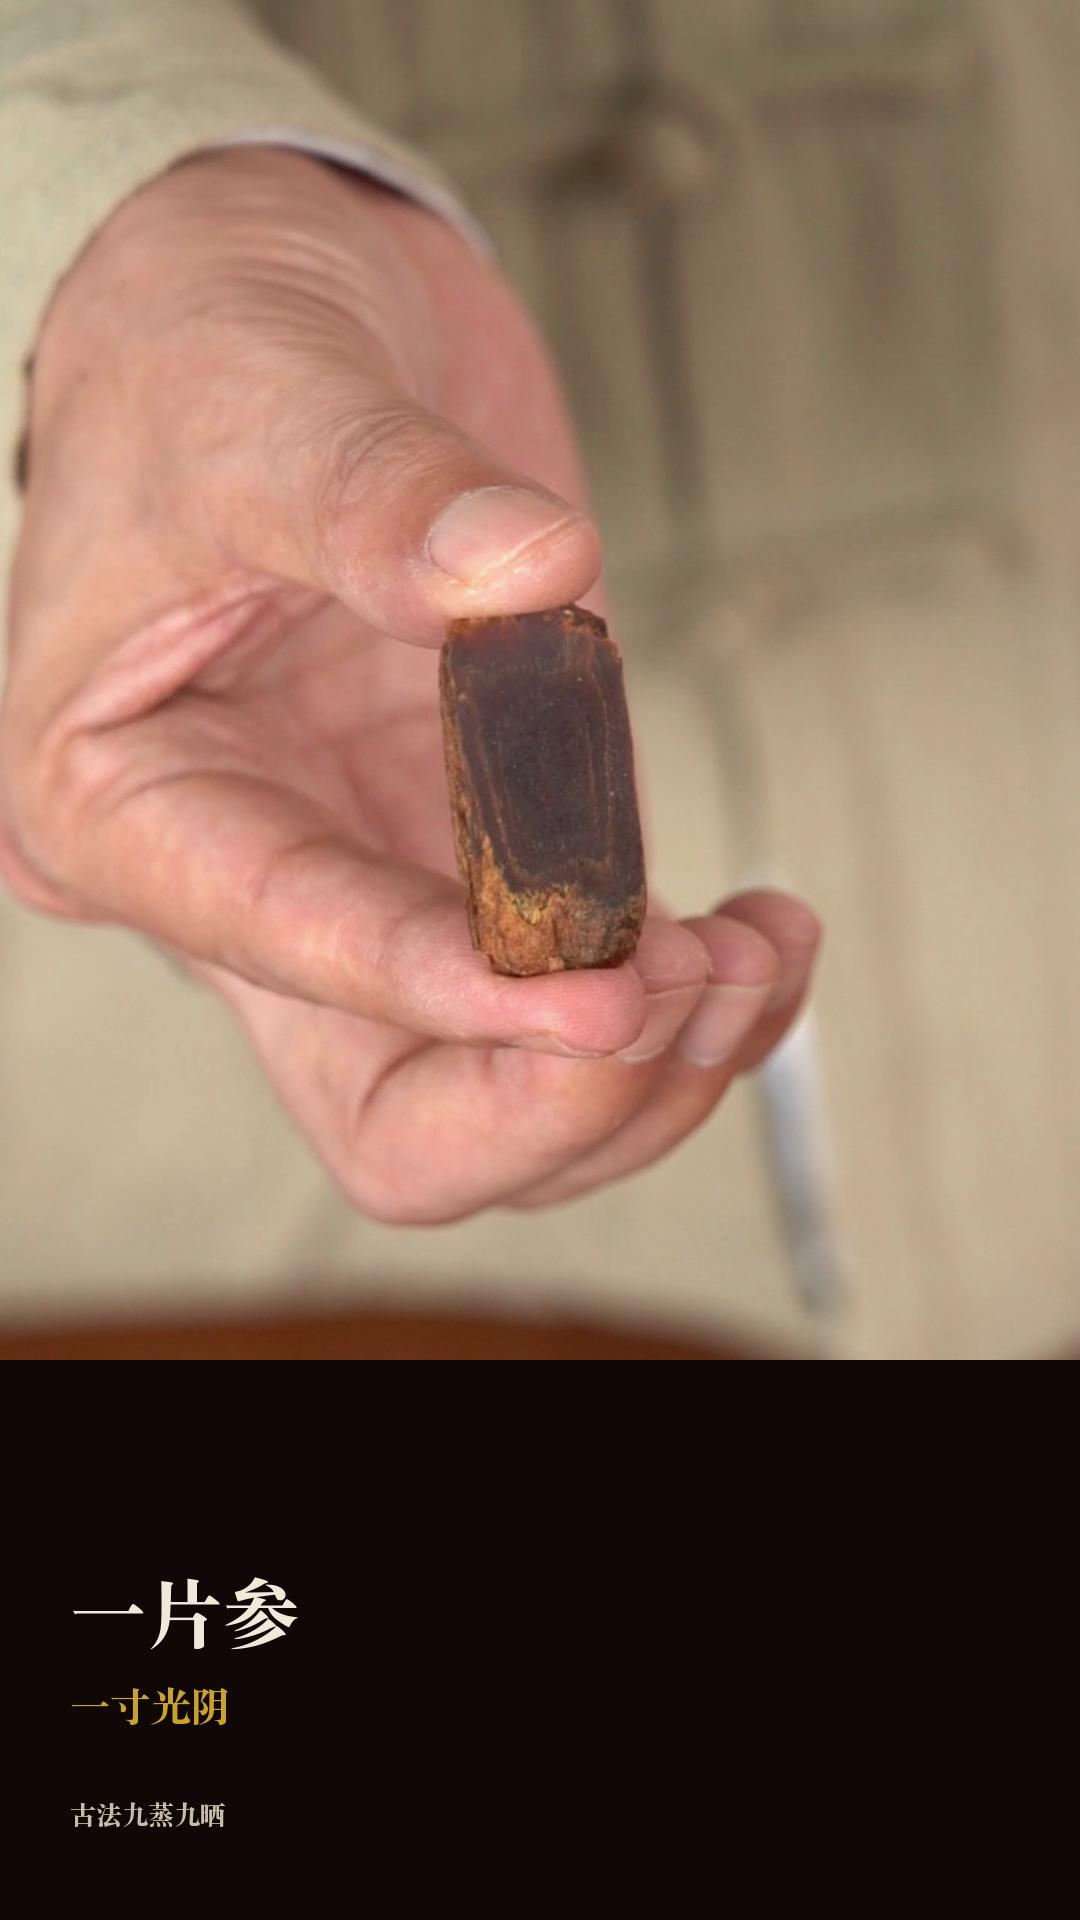
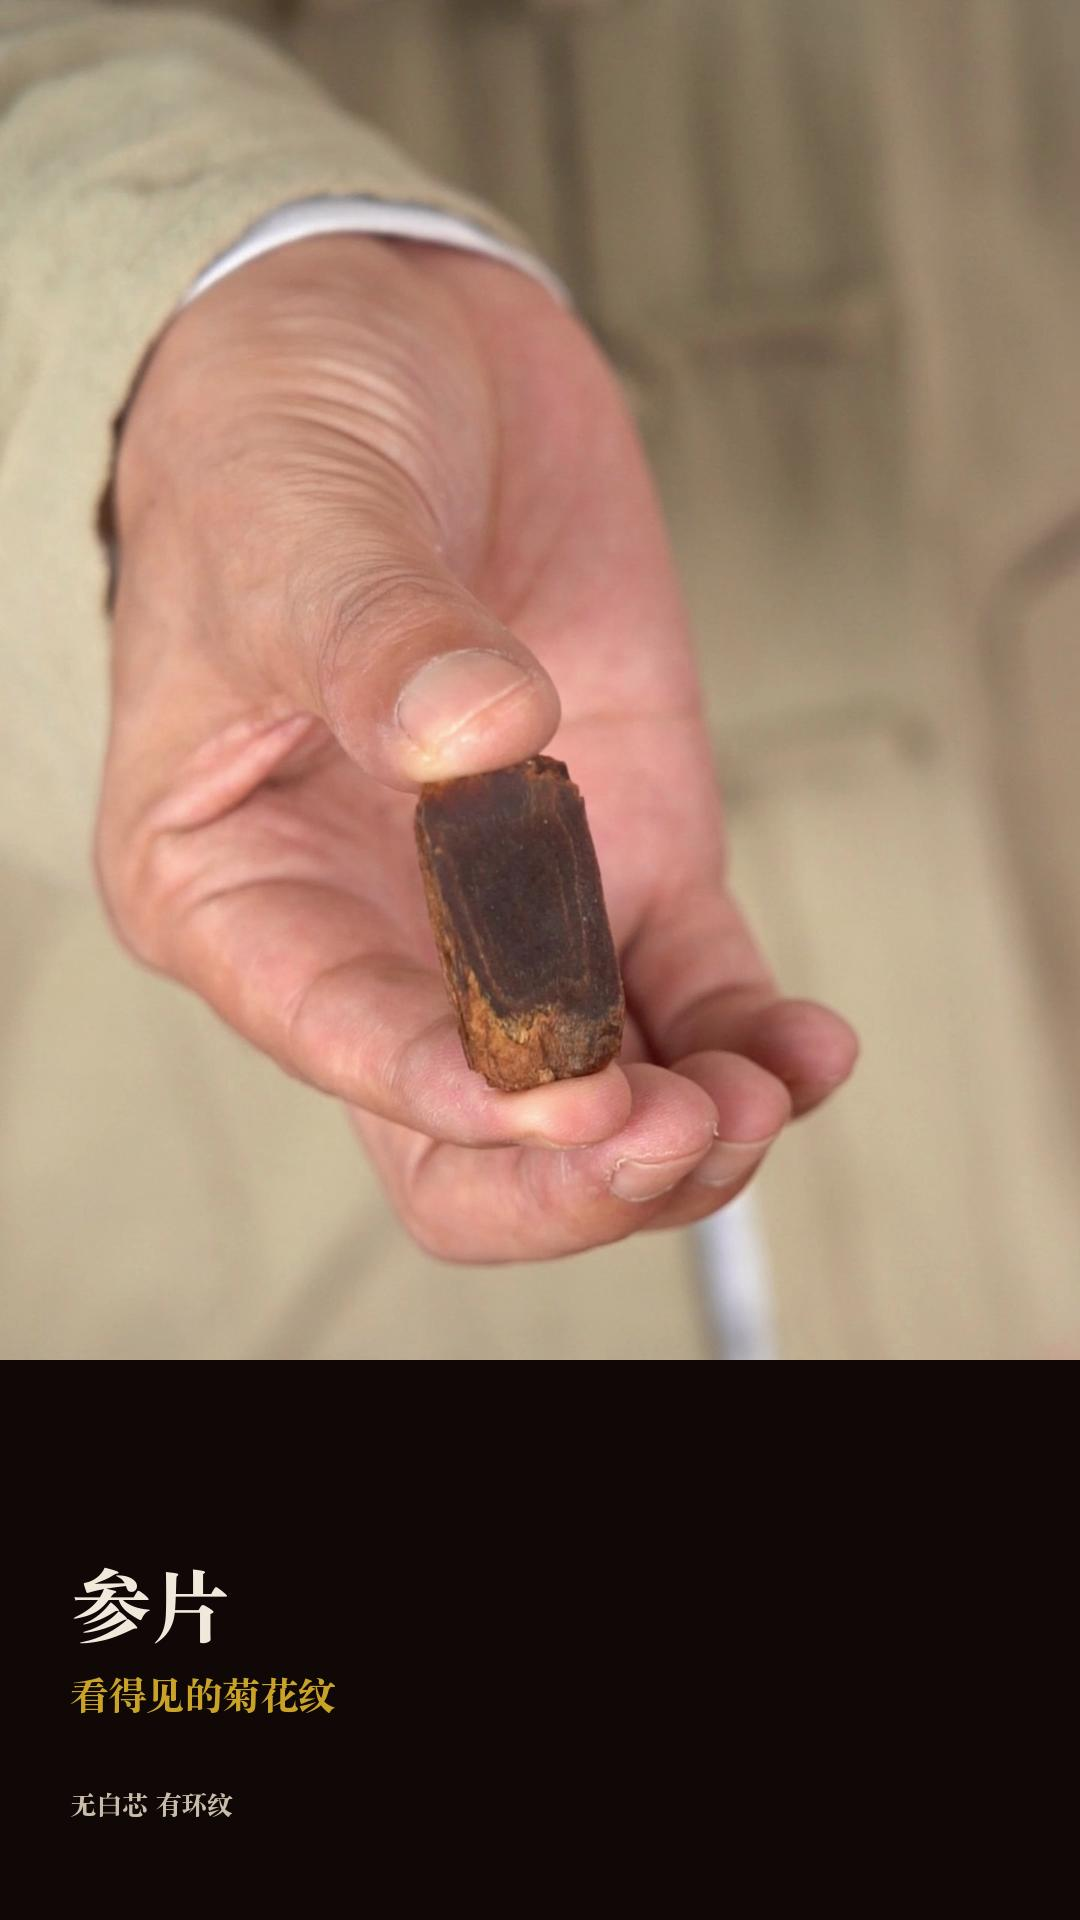
工作台更新 2026-08-22 16:07

diff --git a/docs/主页装修_纯匠人.html b/docs/主页装修_纯匠人.html
@@ -1,8 +1,14 @@
-<!DOCTYPE html><html lang='zh-CN'><head><meta charset='utf-8'><meta name='viewport' content='width=device-width,initial-scale=1'><title>开成高俪 · 纯匠人封面库</title><style>body{background:#f7f3ee;font-family:-apple-system,'PingFang SC',sans-serif;color:#2b2320;margin:0;padding:24px}
+<!DOCTYPE html><html lang='zh-CN'><head><meta charset='utf-8'><meta name='viewport' content='width=device-width, initial-scale=1'><title>开成高俪 · 纯匠人主页装修</title><style>body{background:#f7f3ee;font-family:-apple-system,'PingFang SC',sans-serif;color:#2b2320;margin:0;padding:24px}
 .wrap{max-width:1100px;margin:0 auto}h1{color:#7a1f1a;font-family:'Songti SC',serif;border-bottom:3px solid #7a1f1a;padding-bottom:12px}
 h2{color:#7a1f1a;border-left:5px solid #c9a227;padding-left:10px;margin-top:32px}
 .grid{display:grid;grid-template-columns:repeat(auto-fill,minmax(260px,1fr));gap:16px}
 .card{background:#fff;border:1px solid #e8ddd2;border-radius:10px;padding:10px;text-align:center}
 .card img{width:100%;border-radius:6px;cursor:zoom-in}
 .cap{font-size:13px;color:#4a3a28;margin-top:8px}
-.note{background:#fdf7e8;border:1px solid #e8d8b8;padding:12px 16px;border-radius:6px;margin:14px 0;font-size:14px}</style></head><body><div class='wrap'><h1>🎨 开成高俪 · 纯匠人封面库</h1><p class='note'>纯匠人调性：一张有质感的真实画面 + 底部极简一行衬线字。点图可放大。</p><h2>🖼 纯匠人封面</h2><div class='grid'><div class='card'><img src='assets_home/库_参特写.jpg' onclick=window.open(this.src)><div class='cap'>一炉好参</div></div><div class='card'><img src='assets_home/库_匠人的手.jpg' onclick=window.open(this.src)><div class='cap'>看得见的手艺</div></div><div class='card'><img src='assets_home/库_参片.jpg' onclick=window.open(this.src)><div class='cap'>一片参 一寸光阴</div></div><div class='card'><img src='assets_home/库_陈化.jpg' onclick=window.open(this.src)><div class='cap'>时间酿成的味道</div></div></div><h2>🌌 主页背景</h2><div class='grid'><div class='card'><img src='assets_home/背景图_主页_米白.jpg' onclick=window.open(this.src)><div class='cap'>主页背景·米白</div></div><div class='card'><img src='assets_home/背景图_主页_深红.jpg' onclick=window.open(this.src)><div class='cap'>主页背景·深红</div></div></div></div></body></html>
+.note{background:#fdf7e8;border:1px solid #e8d8b8;padding:12px 16px;border-radius:6px;margin:14px 0;font-size:14px}</style></head><body><div class='wrap'>
+<h1>🎨 开成高俪 · 纯匠人 · 主页装修</h1>
+<p class='note'>图片成品页，点图可放大。</p>
+<h2>🖼 纯匠人封面</h2><div class='grid'><div class='card'><img src='assets_home/库_泡茶.jpg' onclick=window.open(this.src)><div class='cap'>泡茶</div></div><div class='card'><img src='assets_home/库_参酒.jpg' onclick=window.open(this.src)><div class='cap'>参酒</div></div></div>
+<h2>🌌 主页背景</h2><div class='grid'><div class='card'><img src='assets_home/库_参片.jpg' onclick=window.open(this.src)><div class='cap'>参片</div></div><div class='card'><img src='assets_home/库_泡蜜.jpg' onclick=window.open(this.src)><div class='cap'>泡蜜</div></div></div>
+<h2>📐 封面模板</h2><div class='grid'><div class='card'><img src='assets_home/库_炖鸡.jpg' onclick=window.open(this.src)><div class='cap'>炖鸡</div></div><div class='card'><img src='assets_home/库_产地.jpg' onclick=window.open(this.src)><div class='cap'>产地</div></div></div>
+</div></body></html>
